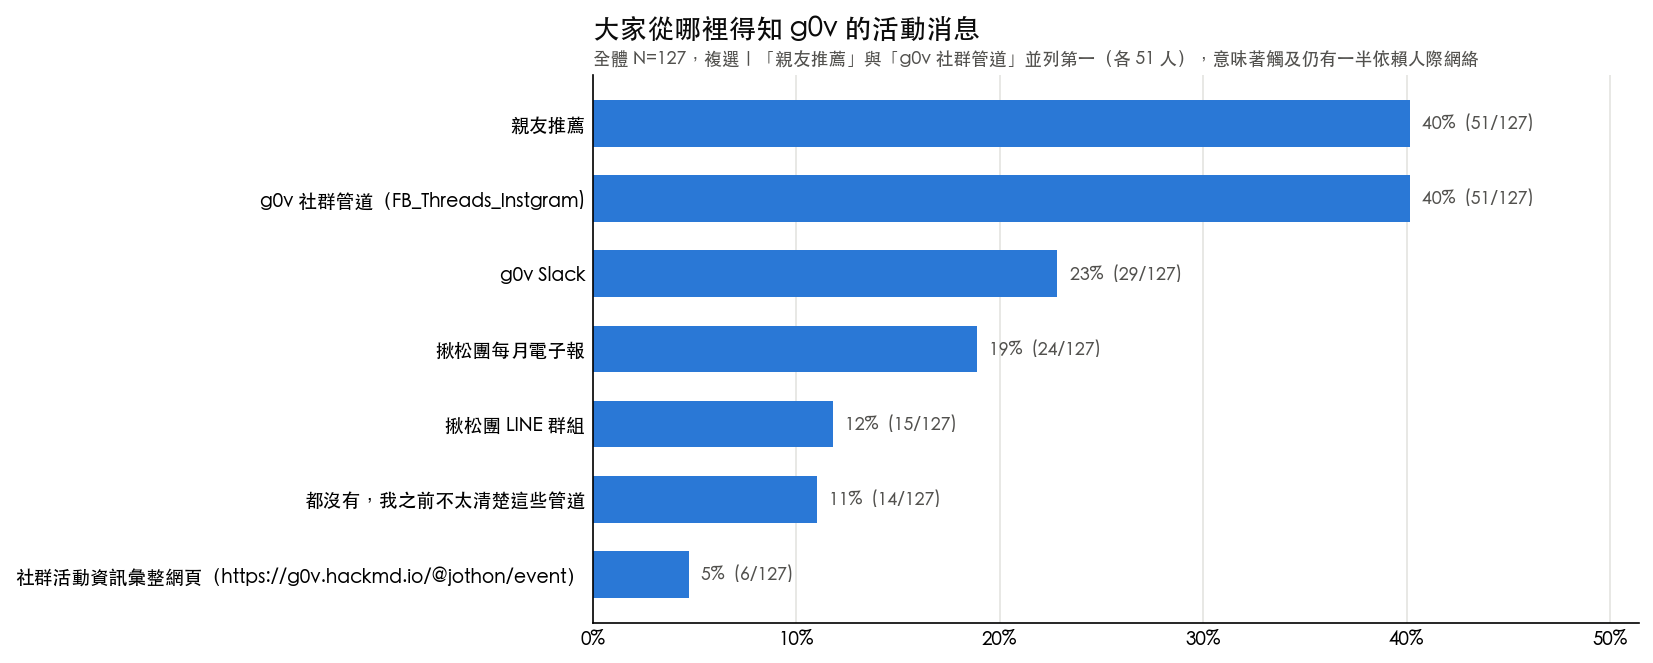
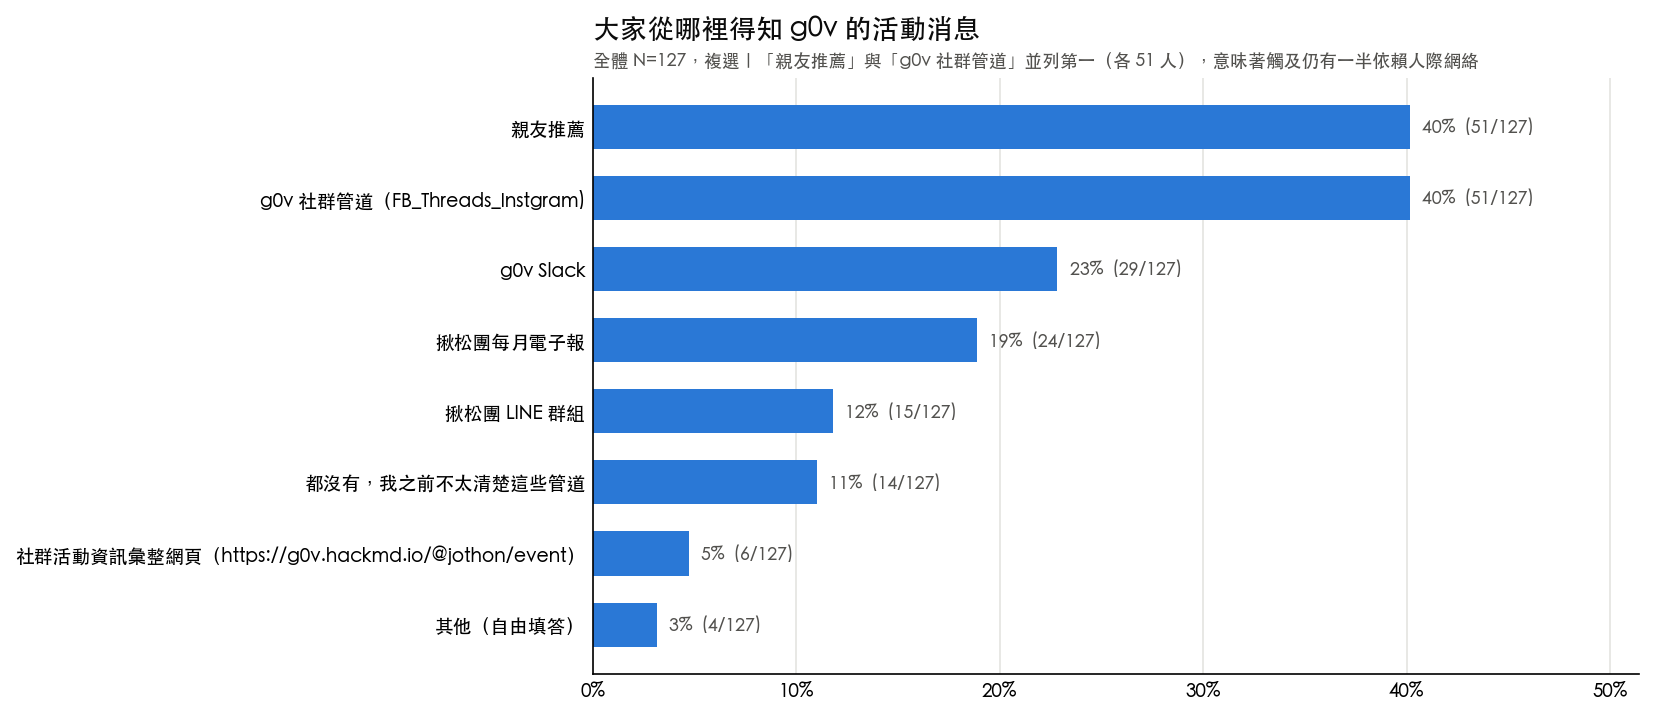
其餘 6 題的自由填答也收斂，並把收斂機制統一到一處
## 背景

PR #3 只修了資源題與動機題。掃過其餘複選題後發現同樣情形：受訪者的原句
與正式選項並排輸出，包含「都市計畫超難查詢啦」「樓梯公佈欄」「我不記得」，
以及**某位社群成員的姓名**（已由 00_clean.py 代換成 `[去識別化]`，但它仍以
「選項」的身分出現在公開的 CSV 裡）。

## 兩個邊界案例由 Claire 對照表單確認（不可併進「其他」）

- 活動意願的**「目前都沒有特別想參加」是正式選項**（表單同時另有「其他」欄）。
  併掉會丟失「沒有意願」這個有意義的類別。
- g0v 消息管道的 **HackMD 活動彙整頁是正式選項，而且是甲方提供的，要獨立分析**。
  6 個人靠它得知消息，對「入口在哪」這一章有意義。

## 判斷依據不是問卷設計稿

**02_問卷設計/問卷設計v.6.md 不能當真相來源——實際上線的表單與設計稿有落差**
（已知：困擾題上線版少了「沒遇到」選項；領域題的選項文字也與設計稿不同）。
用「設計稿裡找不到」當判準會把 68 票的「政府預算、決算與標案」誤判成自由填答。
清單改由實際回收資料判讀，並以兩道守門保護（見下）。

## 機制統一到一處

原本 PR #3 把收斂做在 03_crosstab.py 的 multi_by_group() 裡。這樣不夠：
**03_全體_* 那批表走的是 C.pct_table 而不是 multi_by_group**，只在一邊收斂會漏掉一半輸出。
改成在 main() 開頭用 normalize_freetext(df) 一次收斂完，並移除 multi_by_group 的
valid_opts 參數——不留兩套機制。

## 兩道守門

- 清單裡的每個選項都必須真的出現在資料中 → 擋打錯字。
  打錯字的後果比不收斂更糟：會讓正式選項被誤併成「其他」，靜默弄壞數字。
- 列印資料中不在清單裡的值 → 讓人確認那些真的是自由填答，不是漏列的正式選項。
  每次執行都會印出收斂清單，形成可稽核的紀錄。

## 驗證

- 守門通過（無漏列、無打錯字）；執行時印出 8 題共 23 種自由填答被收斂
- **正式選項的票數完全沒變**：11 份受影響 CSV 逐一比對，共同的正式選項
  （合計 175 個格）票數全部相同——收斂只影響「其他」那一列
- 06_number_index.py 通過（報告本文所有比例自洽）
- 報告本文沒有引用任何被收斂的值（唯一命中的是附錄描述去識別化流程本身）
- 跨領域工具與居住地兩題本來就沒有自由填答，清單納入是為了將來有人填「其他」時能自動接住

diff --git a/04_需求分析與選題報告/分析程式/03_crosstab.py b/04_需求分析與選題報告/分析程式/03_crosstab.py
@@ -21,24 +21,16 @@ from scipy.stats import spearmanr
 import common as C
 
 
-def multi_by_group(df, col, group_col, group_order=None, min_n=1, valid_opts=None):
+def multi_by_group(df, col, group_col, group_order=None, min_n=1):
     """
     複選題 × 分群 → 長表：分群 / 選項 / 分子 / 分母 / 群內比例 / lift / 信賴度。
     分母＝該分群中「有作答該題」的人數。lift＝群內比例 ÷ 全體比例。
 
-    valid_opts：該題的正式選項清單。給了就套 common.bucket_and_dedupe——
-      清單外的自由填答收斂成「其他（自由填答）」並去重。**有正式選項清單的題目一律要給**。
-      不收斂的後果（實際發生過）：受訪者的原句會與正式選項並排輸出，
-      例如動機題出現「我現在已淡出」「累了」、資源題出現「所屬社團夥伴一起討論」，
-      每個都只有 1 人；它們還會共用同一組 lift 欄算出誇張的倍數
-      （出資者群 n=16 裡某句自由填答算出 lift 2.94）。讀者無從得知那是單一個人打的字，
-      而在 10–19 人的小分群中，這有回推到特定填答者的風險——問卷承諾的是「全程匿名」。
+    自由填答的收斂**不在這裡做**，而是在 main() 開頭對整個 df 一次做完（見 normalize_freetext）。
+    原因：03_全體_* 那批表走的是 C.pct_table 而不是本函式，只在本函式裡收斂會漏掉一半的輸出。
 
     lift 一律經 common.lift_or_blank：分子少於 common.LIFT_MIN_NUMERATOR 就留空。
     """
-    if valid_opts is not None:
-        df = df.copy()
-        df[col] = df[col].apply(lambda v: C.bucket_and_dedupe(v, valid_opts))
     base = C.pct_table(df, col).set_index("選項")["比例"].to_dict()
     groups = group_order or [g for g in df[group_col].unique() if str(g).strip()]
     rows = []
@@ -61,6 +53,34 @@ def multi_by_group(df, col, group_col, group_order=None, min_n=1, valid_opts=Non
                 "信賴度": C.subgroup_confidence(denom),
             })
     return pd.DataFrame(rows)
+
+
+def normalize_freetext(df):
+    """
+    對所有「有正式選項清單」的複選題，一次收斂自由填答並去重（見 common.VALID_OPTS）。
+
+    在 main() 開頭做，而不是在各分析函式裡做——因為 03_全體_* 走 C.pct_table、
+    03_三層×* 走 multi_by_group，分頭處理必然會漏掉一邊。
+
+    兩道守門：
+      · 清單裡的每個選項都必須真的出現在資料中 → 擋打錯字（打錯會讓正式選項被誤併成「其他」）
+      · 列出資料中不在清單裡的值 → 讓人確認那些真的是自由填答，不是漏列的正式選項
+    """
+    df = df.copy()
+    for col, opts in C.VALID_OPTS.items():
+        seen = set()
+        for v in df[col]:
+            seen.update(o.strip() for o in str(v).split(C.MULTI_SELECT_SEP) if o.strip())
+        missing = [o for o in opts if o not in seen]
+        if missing:
+            raise ValueError(
+                f"守門檢查失敗：VALID_OPTS 中這些選項在資料裡找不到（可能打錯字，"
+                f"也可能真的 0 人選）：{missing}｜題目：{col[:24]}…")
+        extra = sorted(seen - set(opts))
+        if extra:
+            print(f"  · {col[:20]}… 收斂 {len(extra)} 種自由填答 → 其他（自由填答）：{extra}")
+        df[col] = df[col].apply(lambda v, o=opts: C.bucket_and_dedupe(v, o))
+    return df
 
 
 def trouble_table(df, idx, group_col=None):
@@ -107,14 +127,16 @@ def main():
     # 年齡：全體分布用原始 5 層；交叉分析用收合 3 層，避免 N=2 的格子產生假訊號
     df["年齡_合併"] = df[C.C_AGE].str.strip().map(C.AGE_COARSE)
 
+    # 自由填答一次收斂完，之後所有輸出（pct_table 與 multi_by_group 兩條路）都一致
+    print("自由填答收斂：")
+    df = normalize_freetext(df)
+
     # ---------- 1. 資源 × 專案階段 ----------
-    res_stage = multi_by_group(df, C.C_RESOURCES, "專案階段_合併", C.STAGE_COARSE_ORDER,
-                               valid_opts=C.RESOURCE_OPTS)
+    res_stage = multi_by_group(df, C.C_RESOURCES, "專案階段_合併", C.STAGE_COARSE_ORDER)
     C.save_table(res_stage, "03_資源×專案階段", "曾參與 N=47，全部 L1 方向觀察")
 
     # ---------- 2. 資源 × 決策位置 ----------
-    res_depth = multi_by_group(df, C.C_RESOURCES, "決策位置", ["方向決策者", "執行協力者"],
-                               valid_opts=C.RESOURCE_OPTS)
+    res_depth = multi_by_group(df, C.C_RESOURCES, "決策位置", ["方向決策者", "執行協力者"])
     C.save_table(res_depth, "03_資源×決策位置", "僅曾參與者有作答")
 
     # ---------- 3. 困擾 ----------
@@ -148,20 +170,17 @@ def main():
     C.save_table(trouble_table(df, idx, "參與深度"), "03_困擾×參與深度5級",
                  "曾參與層各深度 n=5/6/8/18/10，全部 L1；二分版見 03_困擾×決策位置")
     C.save_table(multi_by_group(df, C.C_RESOURCES, "參與深度",
-                                list(C.DEPTH_LABEL.values()),
-                                valid_opts=C.RESOURCE_OPTS), "03_資源×參與深度5級",
+                                list(C.DEPTH_LABEL.values())), "03_資源×參與深度5級",
                  "同上，5 級完整版")
 
     # ---------- 4. 年齡 × 動機（條件比例＋lift）----------
     for col, name in [(C.C_MOTIVE_FIRST, "初次動機"), (C.C_MOTIVE_NOW, "持續動機")]:
         done_only = df[df[C.LAYER] == C.L_DONE]
-        t = multi_by_group(done_only, col, "年齡_合併", C.AGE_COARSE_ORDER,
-                           valid_opts=C.MOTIVES)
+        t = multi_by_group(done_only, col, "年齡_合併", C.AGE_COARSE_ORDER)
         C.save_table(t, f"03_年齡×{name}_lift",
                      "年齡收合為 3 層（10/19/18 人）；條件比例＋lift；不做顯著性檢定")
         # 原始 5 層版一併保留供追溯，但因含 N=2 的格，不作為結論依據
-        C.save_table(multi_by_group(done_only, col, C.C_AGE, C.AGE_ORDER,
-                                    valid_opts=C.MOTIVES),
+        C.save_table(multi_by_group(done_only, col, C.C_AGE, C.AGE_ORDER),
                      f"03_年齡×{name}_lift_原始5層",
                      "含 N=2 的年齡層，僅供追溯，不作結論依據")
 

diff --git a/04_需求分析與選題報告/分析程式/common.py b/04_需求分析與選題報告/分析程式/common.py
@@ -249,6 +249,67 @@ RESOURCE_OPTS = [
     "主要靠我自己想辦法",
 ]
 
+# ---------------------------------------------------------------- 各複選題的正式選項
+# 用途：把選項外的自由填答收斂成 FREETEXT_BUCKET（見 bucket_and_dedupe）。
+#
+# ⚠ 判斷「哪些是正式選項」不能靠 02_問卷設計/問卷設計v.6.md——**實際上線的表單與設計稿有落差**
+#    （已知案例：困擾題上線版少了「沒遇到」選項；領域題的選項文字也與設計稿不同）。
+#    這份清單是從實際回收資料判讀出來的，並經 Claire 對照表單確認過兩個邊界案例：
+#      · 活動意願的「目前都沒有特別想參加」→ **是正式選項**（表單同時另有「其他」欄）
+#      · g0v 消息管道的 HackMD 活動彙整頁 → **是正式選項，且是甲方提供的，要獨立分析**
+#    兩者都不可併進「其他」——併掉會丟失有意義的類別。
+#
+# 新增或修改本表時，03_crosstab.py 的守門會檢查：清單裡的每個選項都必須真的出現在資料中
+# （擋打錯字），且會列出資料中不在清單裡的值（讓人確認那些真的是自由填答）。
+VALID_OPTS = {
+    C_DOMAINS: [
+        "政府預算、決算與標案（看政府的錢怎麼花）", "地方發展與地方創生", "防災與災害應變",
+        "假訊息與詐騙防治", "環境汙染與公害", "法律、立法歷程", "居住與租屋",
+        "生態與生物多樣性", "交通與道路安全", "水環境（河川、海洋）", "健康與醫療",
+        "土地使用與違章建築", "教育、親子與兒少青年", "司法判決資料", "選舉與政見資料",
+        "語言與溝通（例如台語、點字）",
+    ],
+    C_TOOLS: [
+        "群眾協力與通報工具（讓沒有技術背景的人，也能簡單回報、標記，一起累積資料）",
+        "AI 應用（用 AI 整理、查證資料等）", "資料視覺化工具",
+        "地理資訊與地圖工具（GIS、線上地圖）",
+        "民意蒐集與線上審議工具（例如問卷、Polis、討論平台）",
+        "怎麼找到現成的研究成果（學術論文、政府委辦研究、考察報告）",
+        "開放協作知識庫（維基百科、Wikidata 等共筆知識）",
+    ],
+    C_EVENTS: [
+        "公私協力怎麼談：一起討論公部門和民間合作的方法，以及常卡在哪",
+        "公民科技實戰心法：從真實案例復盤，學前人怎麼把專案做起來",
+        "公民科技資料庫入門：學會用網站和 AI 問答，快速查專案、看懂專案怎麼組成",
+        "用 AI 幫你提案：從零開始，動手把點子變成專案構想和藍圖",
+        "目前都沒有特別想參加",          # 正式選項，不是自由填答（Claire 已對照表單確認）
+    ],
+    C_G0V_CHANNEL: [
+        "g0v 社群管道（FB_Threads_Instgram)", "親友推薦", "g0v Slack",
+        "揪松團每月電子報", "揪松團 LINE 群組", "都沒有，我之前不太清楚這些管道",
+        # 甲方提供的正式選項，要獨立分析——不可併進「其他」
+        "社群活動資訊彙整網頁（https://g0v.hackmd.io/@jothon/event）",
+    ],
+    C_INFO_CHANNEL: [
+        "非營利組織（例如：開放文化基金會、地球公民基金會）",
+        "開源社群（例如：COSCUP、SITCON、g0v）",
+        "研究單位", "學校", "我還不熟悉相關資訊管道", "政府單位", "企業",
+    ],
+    C_REGION: [
+        "台北市", "新北市", "桃園市", "台中市", "北部其他（基隆、新竹市、新竹縣）",
+        "台南市", "高雄市", "東部區域（宜蘭、花蓮、台東）",
+        "中部區域（苗栗、彰化、南投、雲林）", "南部其他（嘉義市、嘉義縣、屏東）",
+        "目前居住於海外",
+    ],
+    C_G0V_EVENTS: [
+        "我沒參加過 g0v 的活動", "g0v Summit（兩年一次的高峰會）", "雙月大黑客松（大松）",
+        "各專案的小聚（例如國會松、數位韌性松）", "零時小學校",
+    ],
+    C_RESOURCES: RESOURCE_OPTS,
+    C_MOTIVE_FIRST: MOTIVES,
+    C_MOTIVE_NOW: MOTIVES,
+}
+
 # 過去 30 天投入時數：序位
 HOURS_ORDER = {
     "幾乎沒有": 1,
